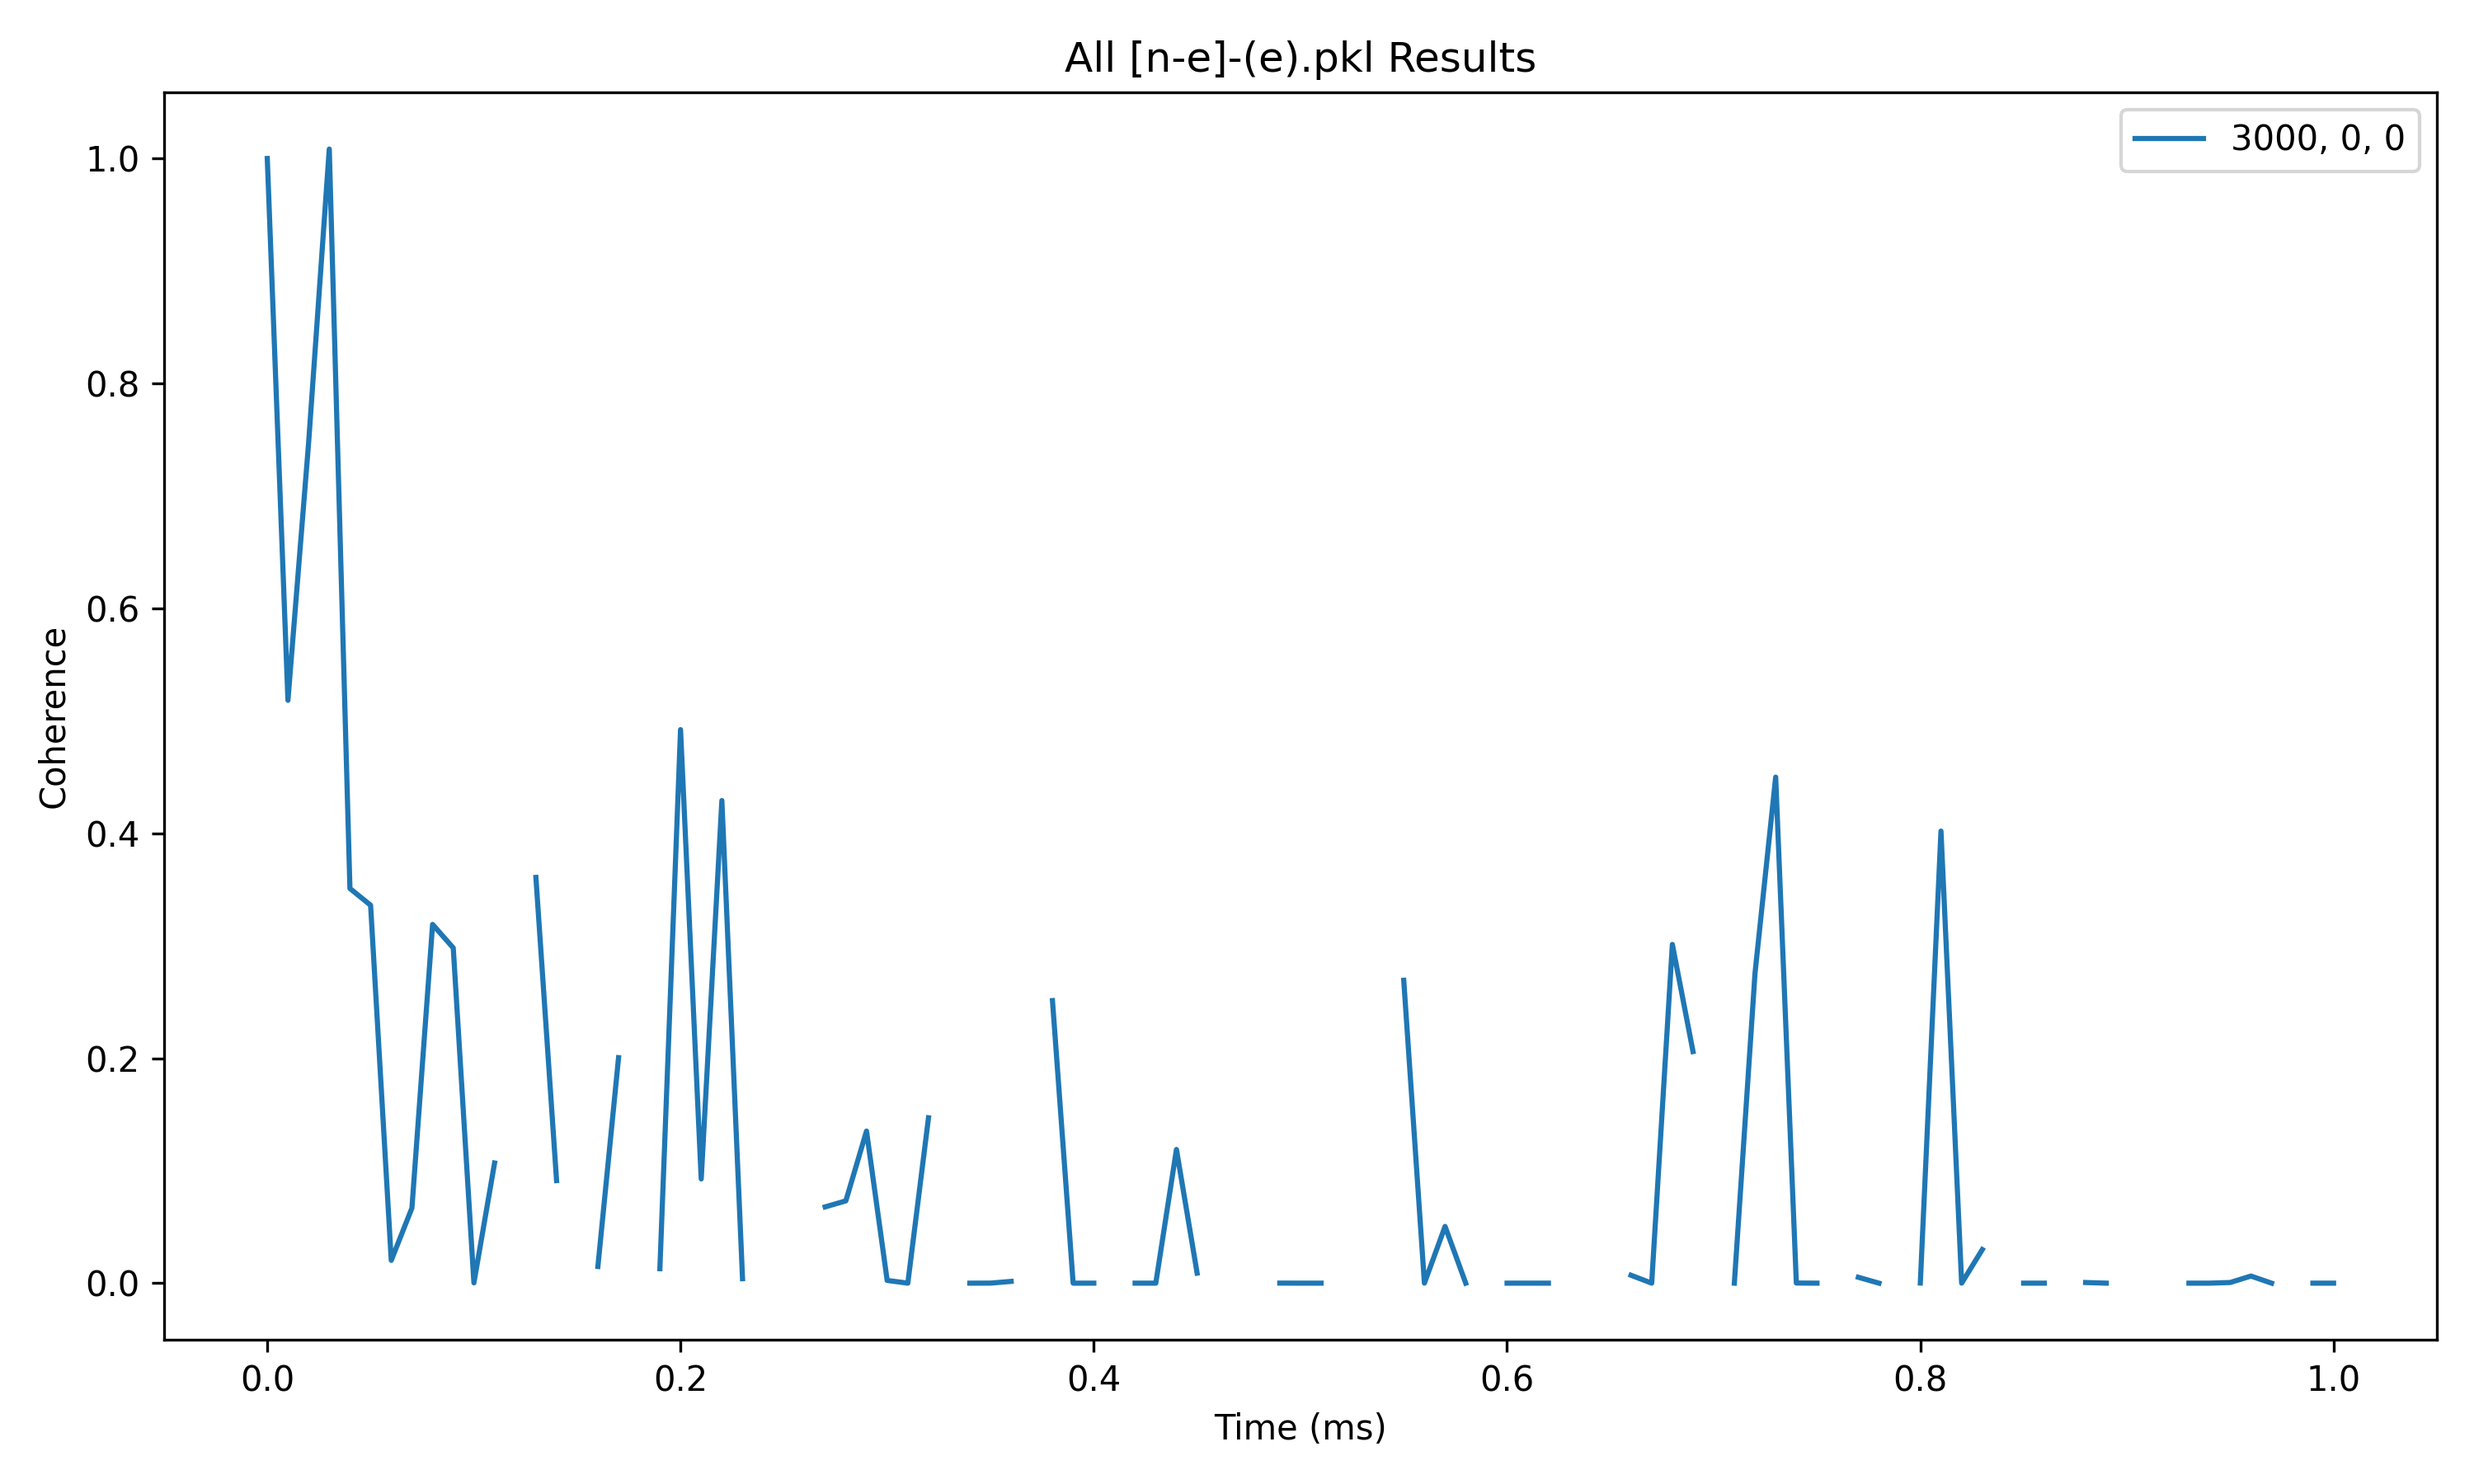
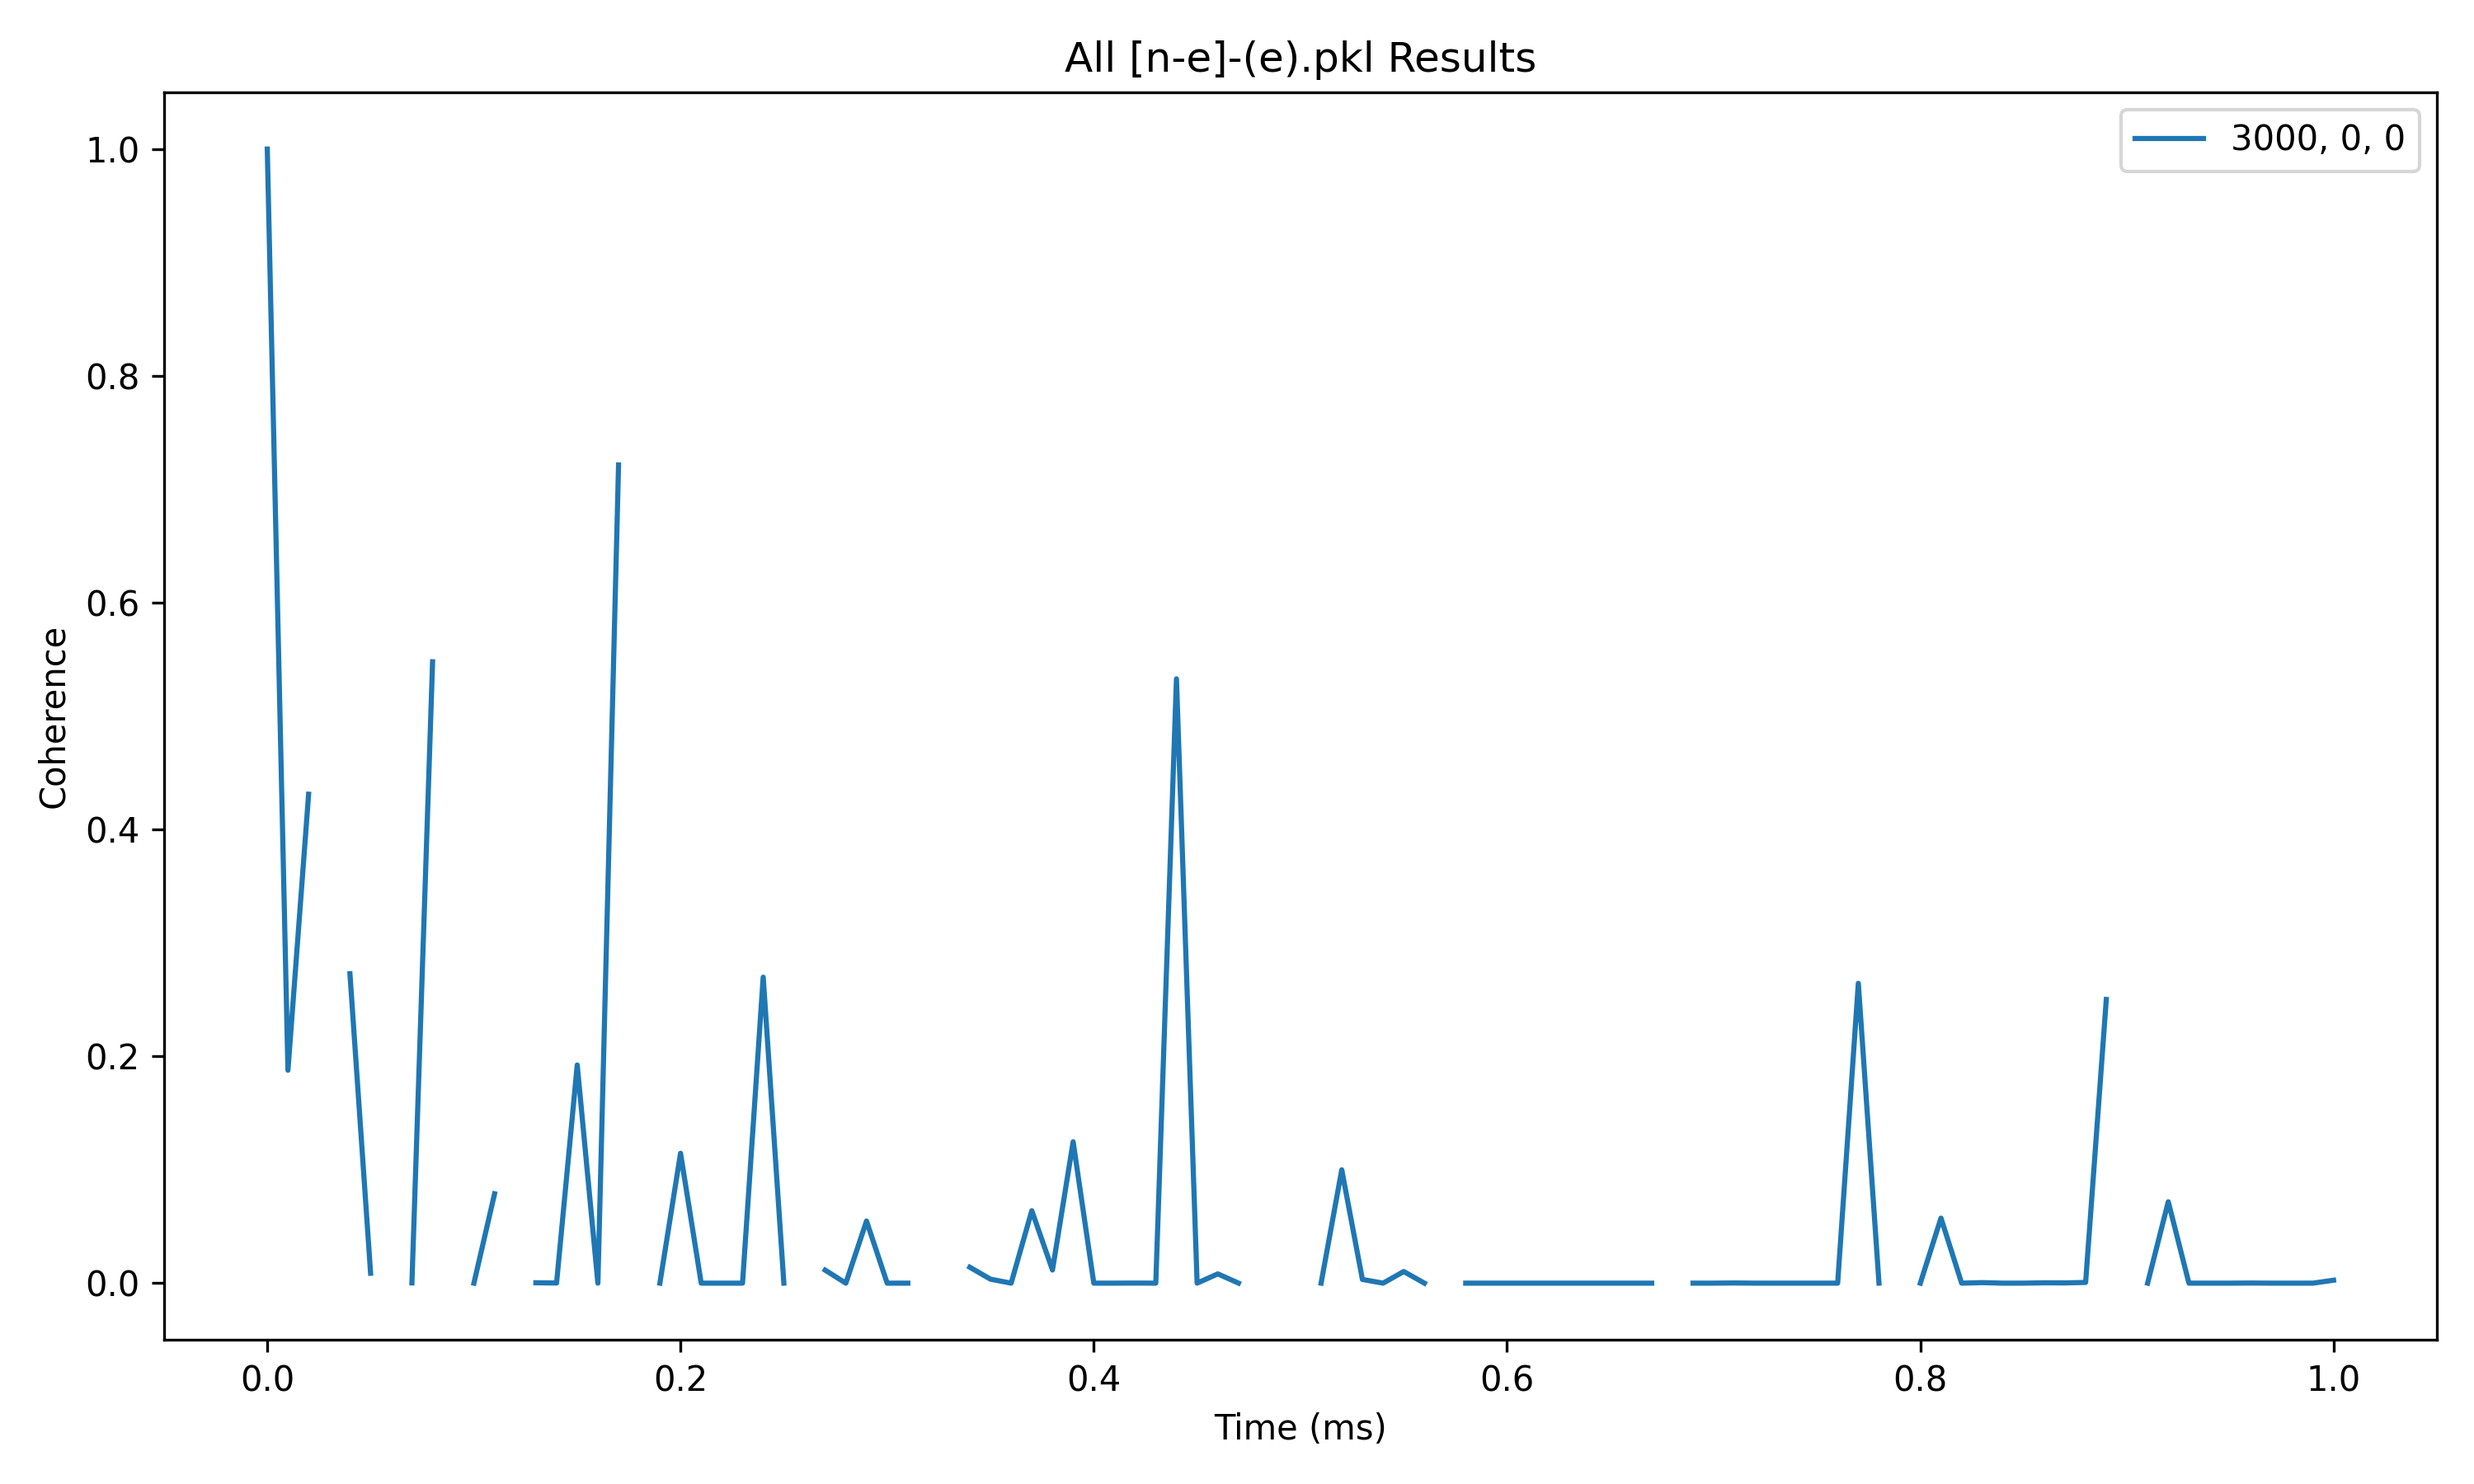
order=3, r_bath=80, r_dipole=70, T_2=16us. Quite concerning

diff --git a/VOTPP folder/VOTPP_[n-e]-(e).py b/VOTPP folder/VOTPP_[n-e]-(e).py
@@ -155,7 +155,7 @@ default_bath_parameters = {
 default_simulator_parameters = { ########## These should be greater when simulating with HPC
     'order': 3, #!
     'r_bath': 80, #16,
-    'r_dipole': 60, #6,
+    'r_dipole': 70, #6,
     'magnetic_field': [3000, 0, 0], # Magnetic field in Gauss
 }
 
@@ -186,8 +186,8 @@ magnetic_field_list = [[3000,0,0],]
 #                         # changing_variable2='timespace', variable_values2=timespace_list,
 #                         )
 
-seed_list = [8000, 9000, 10000, 11000,]
-# seed_list = [8000,]
+# seed_list = [8000, 9000, 10000, 11000,]
+seed_list = [8000,]
 magnetic_results = {}
 for idx, seed in enumerate(seed_list):
     # Change the value of the seed in the default parameters

diff --git a/VOTPP folder/VOTPP_results_and_fit_plotter.py b/VOTPP folder/VOTPP_results_and_fit_plotter.py
@@ -260,9 +260,9 @@ def plot_from_file_average(pickle_filenames, data_range=slice(None), ylim=None):
 # plot_from_file(['magnetic_results_[n-e]_e_N_trans.pkl',]) #!!!!
 
 # plot_from_file(['magnetic_results_[n-e]_e_E_trans.pkl',])
-# plot_from_file(['[n-e]-(e).pkl',])
+plot_from_file(['[n-e]-(e).pkl',])
 # plot_from_file(['[n-e]-(n).pkl',])
-plot_from_file(['magnetic_results_0.pkl'])
+# plot_from_file(['magnetic_results_0.pkl'])
 # plot_from_file(['[n-e]-(e)_r_dipole_results.pkl'])
 # plot_from_file(['[n-e]-(e)_r_bath_results.pkl'])
 # plot_from_file_average(['[n-e]-(e).pkl'])
